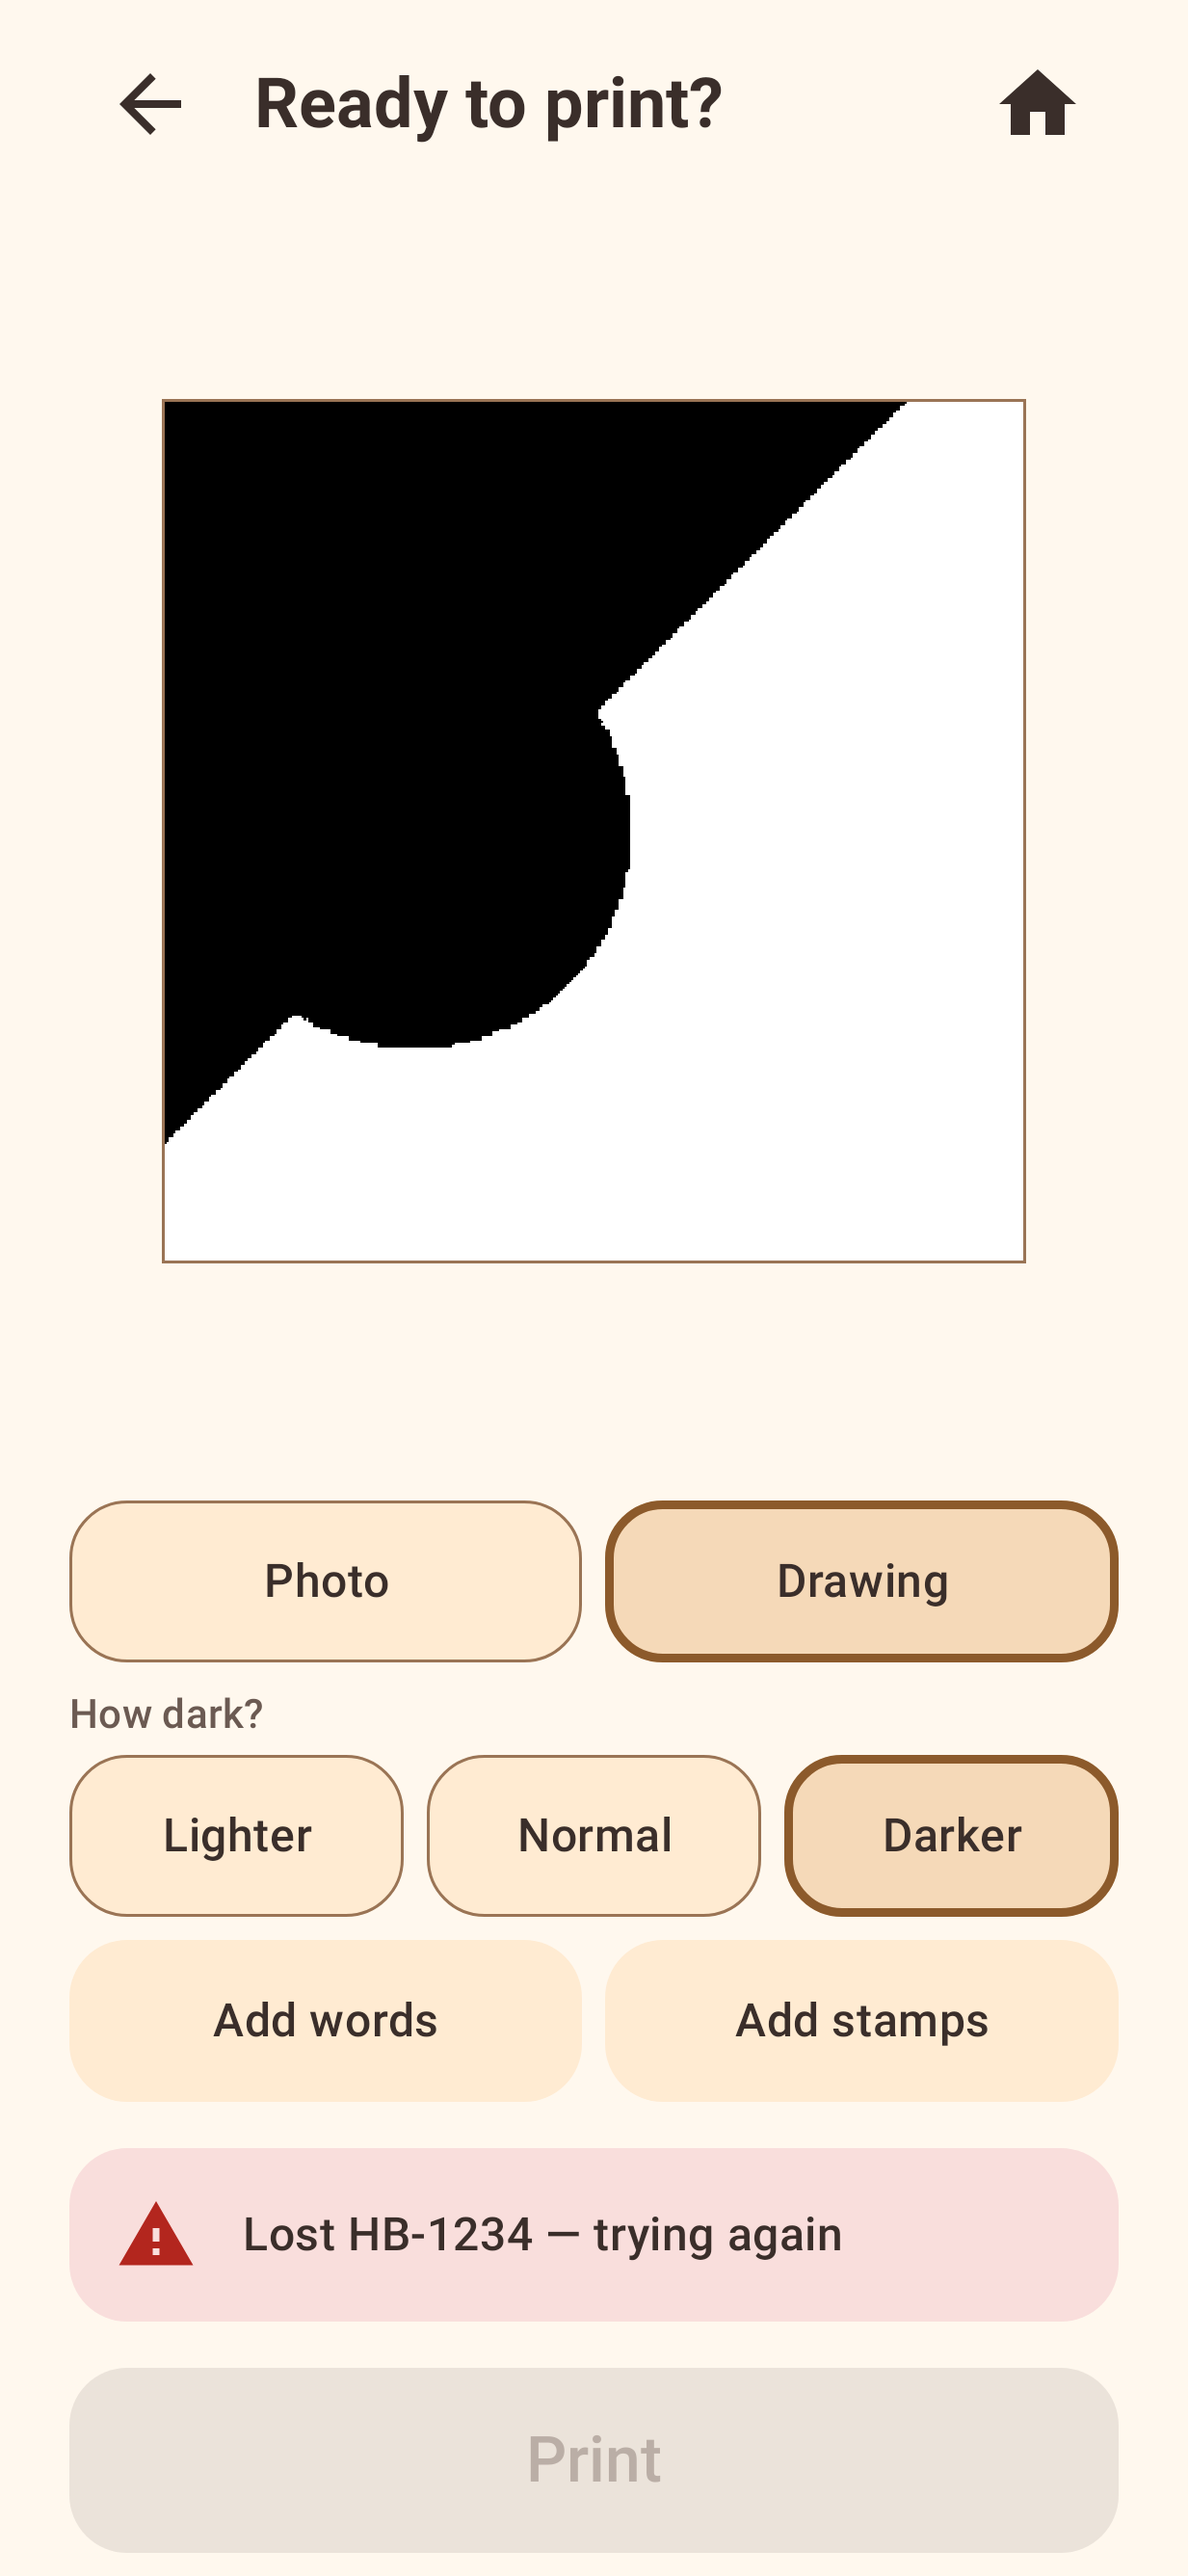
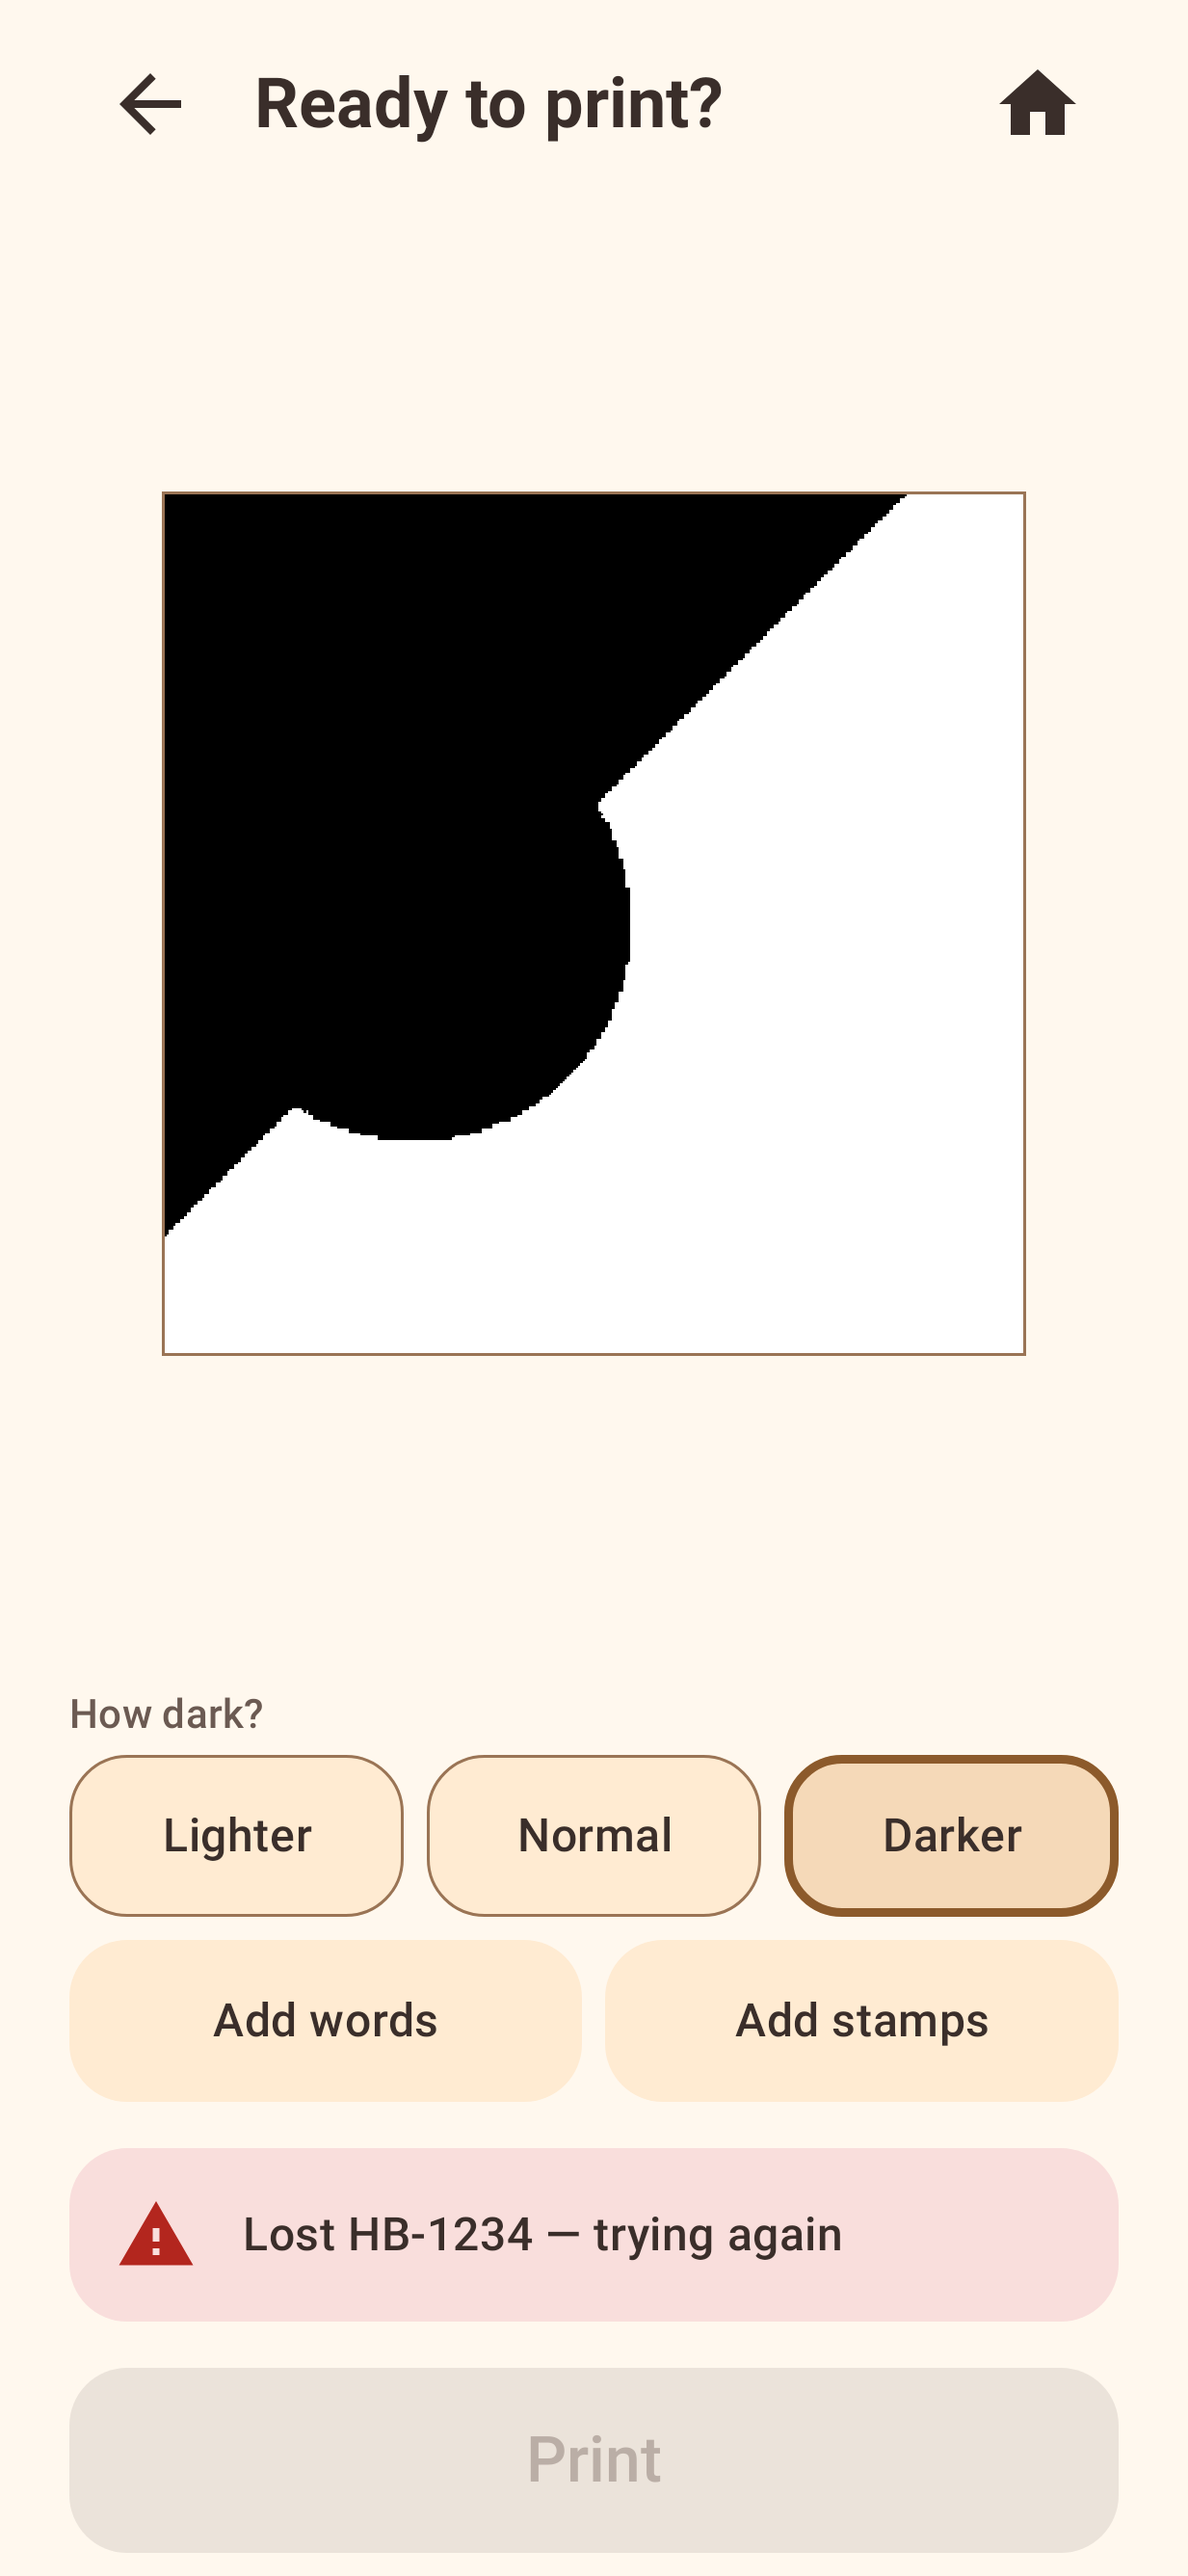
fix(editor): hide the Photo / Drawing row for drawings
On a black-and-white drawing Floyd–Steinberg and threshold produce identical dots, so the
style choice did nothing (hardware-run feedback 2026-09-22). EditorUiState.isDrawing hides the
row; golden updated.

Changed region(s): [[0.1233, 0.1553, 0.7705, 0.4968], [0.0616, 0.5589, 0.9554, 0.6521]]

diff --git a/app/src/main/kotlin/com/example/pugprint/ui/editor/EditorViewModel.kt b/app/src/main/kotlin/com/example/pugprint/ui/editor/EditorViewModel.kt
@@ -59,6 +59,8 @@ data class EditorUiState(
     val image: GrayImage? = null,
     val window: CropWindow? = null,
     val mode: DitherMode = DitherMode.PHOTO,
+    /** A drawing is already black-and-white, so Photo / Drawing style makes no difference and is hidden. */
+    val isDrawing: Boolean = false,
     /** Words on the sticker; blank means none. */
     val caption: String = "",
     val captionPlacement: CaptionPlacement = CaptionPlacement.BOTTOM,
@@ -90,6 +92,7 @@ private data class EditState(
     val image: GrayImage? = null,
     val window: CropWindow? = null,
     val mode: DitherMode = DitherMode.PHOTO,
+    val isDrawing: Boolean = false,
     val caption: String = "",
     val captionPlacement: CaptionPlacement = CaptionPlacement.BOTTOM,
     val stamps: List<StampPlacement> = emptyList(),
@@ -127,6 +130,7 @@ class EditorViewModel
                     image = edit.image,
                     window = edit.window,
                     mode = edit.mode,
+                    isDrawing = edit.isDrawing,
                     caption = edit.caption,
                     captionPlacement = edit.captionPlacement,
                     stamps = edit.stamps,
@@ -152,6 +156,7 @@ class EditorViewModel
             renderJob?.cancel()
             edit.value = EditState()
             val isDrawing = uri == DrawingHandoff.URI
+            edit.update { it.copy(isDrawing = isDrawing) }
             viewModelScope.launch {
                 try {
                     val image = withContext(dispatcher) { photos.load(uri) }

diff --git a/app/src/main/kotlin/com/example/pugprint/ui/editor/EditorScreen.kt b/app/src/main/kotlin/com/example/pugprint/ui/editor/EditorScreen.kt
@@ -263,13 +263,15 @@ private fun ColumnScope.PreviewStep(
 ) {
     Dots(state)
     Spacer(Modifier.height(PugSpacing.medium))
-    ChoiceRow(
-        options = DitherMode.entries,
-        selected = state.mode,
-        onSelect = actions.onMode,
-        label = { stringResource(modeLabel(it)) },
-    )
-    Spacer(Modifier.height(PugSpacing.small))
+    if (!state.isDrawing) {
+        ChoiceRow(
+            options = DitherMode.entries,
+            selected = state.mode,
+            onSelect = actions.onMode,
+            label = { stringResource(modeLabel(it)) },
+        )
+        Spacer(Modifier.height(PugSpacing.small))
+    }
     Text(
         text = stringResource(R.string.editor_darkness),
         style = MaterialTheme.typography.titleSmall,

diff --git a/app/src/test/kotlin/com/example/pugprint/ui/editor/EditorViewModelTest.kt b/app/src/test/kotlin/com/example/pugprint/ui/editor/EditorViewModelTest.kt
@@ -336,6 +336,8 @@ class EditorViewModelTest {
             val state = viewModel.uiState.value
             assertEquals(EditorStep.Preview, state.step)
             assertEquals(DitherMode.DRAWING, state.mode)
+            assertTrue(state.isDrawing)
+            assertFalse(opened().uiState.value.isDrawing)
             val preview = state.preview!!
             assertEquals(384, preview.width)
             assertEquals(384, preview.height)

diff --git a/app/src/test/kotlin/com/example/pugprint/ui/editor/EditorScreenScreenshotTest.kt b/app/src/test/kotlin/com/example/pugprint/ui/editor/EditorScreenScreenshotTest.kt
@@ -95,6 +95,7 @@ class EditorScreenScreenshotTest {
                 image = photo,
                 window = window,
                 mode = DitherMode.DRAWING,
+                isDrawing = true, // a drawing: no Photo / Drawing row
                 preview = ImagePipeline.render(photo, window.cropRect(), DitherMode.DRAWING),
                 density = DensityLevel.DARK,
                 printerStatus = PrinterStatus.Offline,

diff --git a/CHANGELOG.md b/CHANGELOG.md
@@ -14,7 +14,8 @@ All notable changes to PugPrint are documented here. The format follows
   and printing all apply to drawings. Printing now always lands on the home screen (it used to
   pop back to the draw sheet), and the draw and editor screens have a Home button in the header
   (`KidScreen.onHome`). A blank sheet can go to the editor too (words and stamps only), and a
-  drawing skips "Make it fit": it opens straight on "Ready to print?" in Drawing style.
+  drawing skips "Make it fit": it opens straight on "Ready to print?" in Drawing style, without
+  the Photo / Drawing row (both give the same dots on a black-and-white picture).
 - Phase 5 stamps. `StampCatalog` (heart, star, paw, smiley, sun, zap — 16 × 16 art drawn as
   `#`/`.`, add a stamp by adding an entry), `StampPlacement` on the `Sticker` (centre as
   fractions of the sticker, Small / Medium / Big) and `StampRasterizer` (one-dot white halo so
